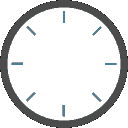
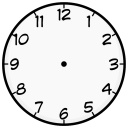
Intermediate update

diff --git a/src/main/java/games/play4ever/mapclocks/Clock.java b/src/main/java/games/play4ever/mapclocks/Clock.java
@@ -11,12 +11,17 @@ import java.io.IOException;
 
 public class Clock {
 
+    private ClockRenderer clockRenderer = null;
+
     private BufferedImage background;
 
     // analog clock hands (hours and minutes)
     private BufferedImage hourHand;
     private BufferedImage minuteHand;
     private BufferedImage center;
+
+    /** Updated final image to display in maps. */
+    private BufferedImage updated;
 
     // digital clock digits and separator (colon)
     private BufferedImage[] digits;
@@ -39,6 +44,15 @@ public class Clock {
         YamlConfiguration config = new YamlConfiguration();
         config.load(new File(directory,"clock.yml"));
         this.clockType = TYPES.valueOf(config.getString("type"));
+        this.clockRenderer = new ClockRenderer(this);
+    }
+
+    public BufferedImage getUpdated() {
+        return this.updated;
+    }
+
+    public void updateImage() {
+        this.updated = this.clockRenderer.renderClock();
     }
 
     public TYPES getType() {

diff --git a/src/main/java/games/play4ever/mapclocks/ClockRenderer.java b/src/main/java/games/play4ever/mapclocks/ClockRenderer.java
@@ -11,7 +11,8 @@ import java.awt.image.AffineTransformOp;
 import java.awt.image.BufferedImage;
 import java.awt.image.ColorModel;
 import java.awt.image.WritableRaster;
-import java.time.LocalDateTime;
+import java.time.ZoneId;
+import java.time.ZonedDateTime;
 
 public class ClockRenderer extends MapRenderer {
 
@@ -31,8 +32,8 @@ public class ClockRenderer extends MapRenderer {
         BufferedImage image = deepCopy(clock.getBackground());
         Graphics g = image.getGraphics();
         if(clock.getClockType() == Clock.TYPES.analog) {
-            LocalDateTime now = LocalDateTime.now();
-            int currentHour = now.getHour() > 11 ? now.getHour() / 2 : now.getHour();
+            ZonedDateTime now = ZonedDateTime.now(ZoneId.systemDefault());
+            int currentHour = now.getHour() > 12 ? now.getHour() - 12 : now.getHour();
             int currentMinute = now.getMinute();
             MapClocks.logInfo("> Hour: " + currentHour + " / minute: " + currentMinute);
 

diff --git a/src/test/java/games/play4ever/test/ClockTestCanvas.java b/src/test/java/games/play4ever/test/ClockTestCanvas.java
@@ -1,7 +1,6 @@
 package games.play4ever.test;
 
 import games.play4ever.mapclocks.Clock;
-import games.play4ever.mapclocks.ClockRenderer;
 
 import javax.swing.*;
 import java.awt.*;
@@ -11,17 +10,17 @@ import java.io.File;
 
 public class ClockTestCanvas extends Canvas{
 
-    private ClockRenderer clockRenderer = null;
+    private Clock clock;
 
     public void paint(Graphics g) {
-        g.drawImage(this.clockRenderer.renderClock(), 0,0, 256, 256, this);
+        this.clock.updateImage();
+        g.drawImage(this.clock.getUpdated(), 0,0, 256, 256, this);
 //        g.drawImage(this.clockRenderer.renderClock(), 0,0,this);
     }
 
     private ClockTestCanvas(File clockDir) throws Exception {
-        Clock clock = new Clock(clockDir);
+        this.clock = new Clock(clockDir);
         clock.initialize();
-        this.clockRenderer = new ClockRenderer(clock);
     }
 
     public static void main(String[] args) {
